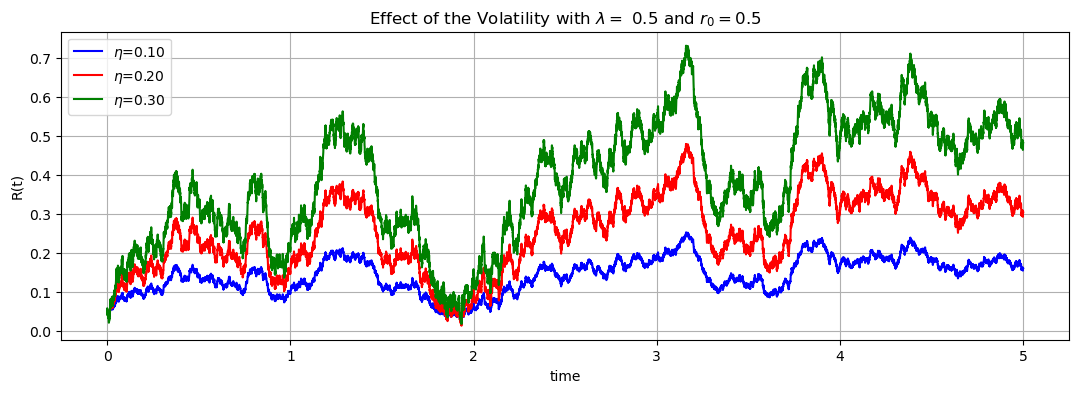
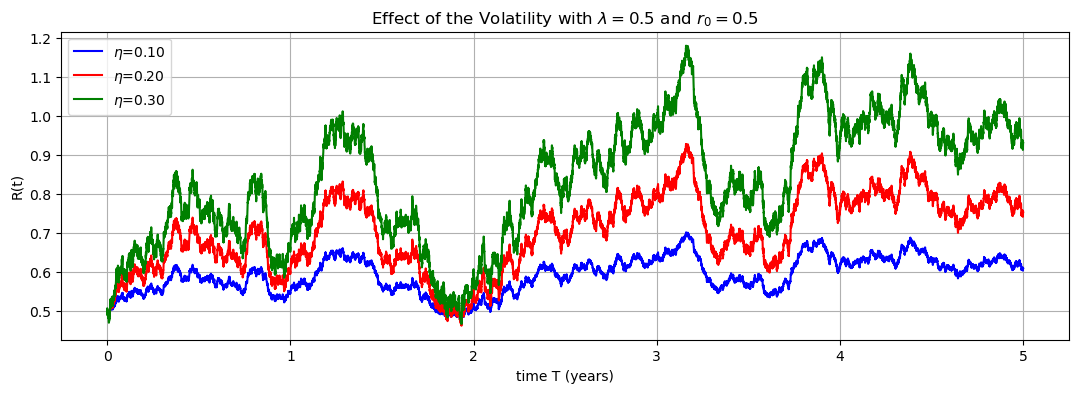
HW plot; Log_COS plot a,b=-1,1, a,b=-100,100;

diff --git a/main.py b/main.py
@@ -86,9 +86,9 @@ def OptionPriceFromCOS(cf, CP, S0, tau, K, N, L, P0T):
     # Summation from k = 0 to k=N-1
     k = np.linspace(0, N - 1, N).reshape([N, 1])
     u = k * np.pi / (b - a)
-    H_k = CallPutCoefficients(OptionType.PUT, a, b, k)
+    U_k = CallPutCoefficients(OptionType.PUT, a, b, k)
     mat = np.exp(i * np.outer((x0 - a), u))
-    temp = cf(u) * H_k
+    temp = cf(u) * U_k
     temp[0] = 0.5 * temp[0]
     value = K * np.real(mat.dot(temp))
     if CP == OptionType.CALL:
@@ -108,7 +108,7 @@ def BS(CP, S_0: float, K: float, sigma: float, t, T: float, r: float) -> float:
     K : ndarray of float
         Array of strikes.
     sigma : float
-        volatility of the stock price
+        volatility of the stock price (constant)
     t : float
         time
     T : float
@@ -123,7 +123,7 @@ def BS(CP, S_0: float, K: float, sigma: float, t, T: float, r: float) -> float:
     """
     if K is np.array:
         K = np.array(K).reshape([len(K), 1])
-    d1 = (np.log(S_0 / K) + (r + 0.5 * np.power(sigma, 2.0)) * (T - t)) / (
+    d1 = (np.log(S_0 / K) + (r + 0.5 * sigma**2.0) * (T - t)) / (
         sigma * np.sqrt(T - t)
     )
     d2 = d1 - sigma * np.sqrt(T - t)
@@ -144,7 +144,6 @@ if __name__ == "__main__":
 
     FIGURE = 1
     SAVE = 1
-    DIFF = 0
 
     print("=" * 60)
 
@@ -198,10 +197,11 @@ if __name__ == "__main__":
         print("=" * 60)
 
     if BLACK:
-        value_BS = BS(CP, S0, K, 0.05, 0, T, r)
+        value_BS = BS(CP, S0, K, v0, 0, T, r)
 
     if FIGURE:
         plt.figure()
+        plt.title(f"Option Price vs Strike Price for T={T} years", fontsize=10)
         if EULER:
             plt.plot(K, valueOptMC, label="HHW - Euler")
         if AES:
@@ -209,47 +209,110 @@ if __name__ == "__main__":
         if COS:
             plt.plot(K, valCOS, "--r", label="HHW - COS")
         if BLACK:
-            plt.plot(K, value_BS, "--g", label="Black Scholes")
+            plt.plot(K, value_BS, "--g", label="Black-Scholes")
         plt.legend()
-        plt.xlabel("Strike, K")
+        plt.xlabel("Strike K")
         plt.ylabel("Option Value")
         plt.grid()
         if SAVE:
             plt.savefig(f"figure/HHW_{T}y_{CP}.png", bbox_inches="tight")
-        if DIFF:
-            value = []
-            for i in range(len(S_n)):
-                value.append(OptionPriceFromMonteCarlo(
-                    CP, S_n[:, i], K, M_t_n[:, i]))
-            print(len(value))
-            print(value)
-            plt.figure()
-            plt.plot(K, valCOS-value)
+        plt.show()
 
-    plt.figure()
-    K = 100
-    r = 0.1
-    T = 1
-    sigma = 0.3
-    N = norm.cdf
+    nx = 0
+    if nx:
+        K = 100
+        r = 0.1
+        T = 1
+        sigma = 0.3
+        N = norm.cdf
 
-    def BS_CALL(S, K, T, r, sigma):
-        d1 = (np.log(S/K) + (r + sigma**2/2)*T) / (sigma*np.sqrt(T))
-        d2 = d1 - sigma * np.sqrt(T)
-        return S * N(d1) - K * np.exp(-r*T) * N(d2)
+        def BS_CALL(S, K, T, r, sigma):
+            d1 = (np.log(S/K) + (r + sigma**2/2)*T) / (sigma*np.sqrt(T))
+            d2 = d1 - sigma * np.sqrt(T)
+            return S * N(d1) - K * np.exp(-r*T) * N(d2)
 
-    def BS_PUT(S, K, T, r, sigma):
-        d1 = (np.log(S/K) + (r + sigma**2/2)*T) / (sigma*np.sqrt(T))
-        d2 = d1 - sigma * np.sqrt(T)
-        return K*np.exp(-r*T)*N(-d2) - S*N(-d1)
-    
-    S = np.arange(60, 140, 0.1)
+        def BS_PUT(S, K, T, r, sigma):
+            d1 = (np.log(S/K) + (r + sigma**2/2)*T) / (sigma*np.sqrt(T))
+            d2 = d1 - sigma * np.sqrt(T)
+            return K*np.exp(-r*T)*N(-d2) - S*N(-d1)
 
-    calls = [BS(OptionType.CALL, s, K, sigma, 0, T, r) for s in S]
-    puts = [BS(OptionType.PUT, s, K, sigma, 0, T, r) for s in S]
-    plt.plot(S, calls, label='Call Value')
-    plt.plot(S, puts, label='Put Value')
-    plt.xlabel('$S_0$')
-    plt.ylabel(' Value')
-    plt.legend()
-    plt.show()
+        S = np.arange(60, 140, 5)
+
+        calls = [BS(OptionType.CALL, s, K, sigma, 0, T, r) for s in S]
+        puts = [BS(OptionType.PUT, s, K, sigma, 0, T, r) for s in S]
+        plt.figure()
+        plt.plot(S, calls, label='Call Value')
+        plt.plot(S, puts, label='Put Value')
+        plt.xlabel('$S_0$')
+        plt.ylabel(' Value')
+        plt.legend()
+        plt.show()
+
+        variyng_S = []
+        for element in S:
+            set_params = (P0T, T, kappa, gamma, rhoxr, rhoxv, vbar, v0, lambd, eta)
+            np.random.seed(1)
+            paths = HHW_Euler(NPaths, NSteps, element, set_params)
+            S_n = paths["S"]
+            M_t_n = paths["M_t"]
+            variyng_S.append(OptionPriceFromMonteCarlo(
+                CP, S_n[:, -1], [100], M_t_n[:, -1]))
+
+        variyng_S = np.array(variyng_S).reshape(len(S))
+
+        def long_put(S, K, Price):
+            # Long Put Payoff = max(Strike Price - Stock Price, 0)     # If we are long a call, we would only elect to call if the current stock price is less than     # the strike price on our option
+            P = list(map(lambda x: max(K - x, 0) - Price, S))
+            return P
+
+        T4 = long_put(S, 100, 0)
+        plt.figure()
+        plt.plot(S, puts, label='Puts Value BS')
+        plt.plot(S, variyng_S, label='Puts Value HHW')
+        plt.plot(S, T4, label='Payoff')
+        plt.xlabel('$S_0$')
+        plt.ylabel(' Value')
+        plt.legend()
+        plt.show()
+
+        plt.style.use('ggplot')
+        plt.rcParams['xtick.labelsize'] = 14
+        plt.rcParams['ytick.labelsize'] = 14
+        plt.rcParams['figure.titlesize'] = 18
+        plt.rcParams['figure.titleweight'] = 'medium'
+        plt.rcParams['lines.linewidth'] = 2.5
+
+        # S = stock underlying # K = strike price # Price = premium paid for option
+        def long_call(S, K, Price):
+            # Long Call Payoff = max(Stock Price - Strike Price, 0)     # If we are long a call, we would only elect to call if the current stock price is greater than     # the strike price on our option
+            P = list(map(lambda x: max(x - K, 0) - Price, S))
+            return P
+
+        def long_put(S, K, Price):
+            # Long Put Payoff = max(Strike Price - Stock Price, 0)     # If we are long a call, we would only elect to call if the current stock price is less than     # the strike price on our option
+            P = list(map(lambda x: max(K - x, 0) - Price, S))
+            return P
+
+        S = [t/5 for t in range(0, 1000)]  # Define some series of stock-prices
+        fig, ax = plt.subplots(nrows=1, ncols=2, figsize=(10, 10))
+        fig.suptitle('Payoff Functions for Long/Short Put/Calls',
+                    fontsize=20, fontweight='bold')
+        fig.text(0.5, 0.04, 'Stock/Underlying Price ($)',
+                ha='center', fontsize=14, fontweight='bold')
+        fig.text(0.08, 0.5, 'Option Payoff ($)', va='center',
+                rotation='vertical', fontsize=14, fontweight='bold')
+
+        lc_P = long_call(S, 100, 10)
+        lp_P = long_put(S, 100, 10)
+        plt.subplot(1, 2, 1)
+        plt.plot(S, lc_P, 'r')
+        plt.plot(S, lp_P, 'b')
+        plt.legend(["Long Call", "Long Put"])
+
+        T2 = long_call(S, 120, 10)
+        T4 = long_put(S, 100, 10)
+        plt.subplot(1, 2, 2)
+        plt.plot(S, T2, 'r')
+        plt.plot(S, T4, 'b')
+        plt.legend(["Long Call", "Long Put"])
+        plt.show()

diff --git a/utils/HHW_MC.py b/utils/HHW_MC.py
@@ -152,7 +152,6 @@ if __name__ == "__main__":
 
     FIGURE = True
     SAVE = False
-    DENSITY = False
 
     np.random.seed(1)
 
@@ -173,29 +172,33 @@ if __name__ == "__main__":
     if FIGURE:
         plt.figure()
         plt.plot(K, valueOptMC)
+        plt.title('European Option Value for different Strikes Price (K)')
         plt.legend(["Euler"])
         plt.xlabel("Strike, K")
         plt.ylabel("EU Option Value")
         plt.grid()
         if SAVE:
             plt.savefig("MC.png", bbox_inches="tight")
-        plt.show()
 
         plt.figure()
+        plt.title("Stock Price path")
+        plt.xlabel("Time (t)")
         for i in range(0, 5):
-            plt.title("Stock Price path")
             plt.plot(time_n, S_n[i, :])
-        plt.show()
+        if SAVE:
+            plt.savefig(f"Euler_{T}_StockPaths.png", bbox_inches="tight")
 
         plt.figure()
+        plt.title("Interest rate paths")
+        plt.xlabel("Time (t)")
         for i in range(0, 5):
-            plt.title("Interest rate paths")
             plt.plot(time_n, R_n[i, :])
-        plt.show()
+        if SAVE:
+            plt.savefig(f"Euler_{T}_IRPaths.png", bbox_inches="tight")
 
         plt.figure()
+        plt.title("Numeraire paths")
         for i in range(0, 10):
-            plt.title("Numeraire paths")
             plt.plot(time_n, M_t_n[i, :])
         plt.show()
 
@@ -204,32 +207,3 @@ if __name__ == "__main__":
         np.savetxt("MC_S_n.txt", S_n, fmt="%.4f")
         np.savetxt("MC_R_n.txt", R_n, fmt="%.4f")
         np.savetxt("MC_M_t_n.txt", M_t_n, fmt="%.4f")
-
-    if DENSITY:
-        import scipy.stats as st
-
-        # 3D graph for S(t) for paths versus density
-        plt.figure()
-        ax = plt.axes(projection="3d")
-        zline = np.zeros([len(time_n), 1])
-        # Plot paths
-        n = 40
-        for i in range(0, n, 1):
-            y1 = np.squeeze(np.transpose(S_n[i, :]))
-            x1 = time_n
-            z1 = np.squeeze(zline)
-            ax.plot3D(x1, y1, z1, "blue")
-        ax.view_init(50, -170)
-
-        # Plot densities for X(T)
-        Ti = np.linspace(0, T, 500)
-        # Note that in scipy the scale parameter needs to be in the exponent
-        lognnormPDF = lambda x, t: st.lognorm.pdf(
-            x, scale=np.exp(np.log(S0) + (r - 0.5 * eta * eta) * t), s=np.sqrt(t) * eta
-        )
-        y1 = np.linspace(0, 200, 100)
-        for ti in Ti:
-            x1 = np.zeros([len(y1)]) + ti
-            z1 = lognnormPDF(y1, ti)
-            ax.plot3D(x1, y1, z1, "red")
-        plt.show()

diff --git a/cal_theory/HW_MC.py b/cal_theory/HW_MC.py
@@ -34,7 +34,6 @@ def HWEuler(NPaths, NSteps, T, P0T, lambd, eta):
             + eta * (W[:, i + 1] - W[:, i])
         )
         time[i + 1] = time[i] + dt
-        print(f_ZERO_T(time[i]))
     paths = {"time": time, "R": R}
     return paths
 
@@ -46,13 +45,13 @@ if __name__ == "__main__":
 
     pylab.rcParams["figure.figsize"] = (13, 4)
 
-    SAVE = 0
+    SAVE = 1
     NPaths = 1
     NSteps = 20000
     T = 5.0
     lambd = 0.5
     eta = 0.1
-    P0T = lambda T: np.exp(-0.05 * T)
+    P0T = lambda T: np.exp(-0.5 * T)
 
     plt.figure()
     legend = []
@@ -67,8 +66,8 @@ if __name__ == "__main__":
         R = Paths["R"]
         plt.plot(timeGrid, np.transpose(R), color=color[idx])
     plt.grid()
-    plt.title(rf"Effect of mean reversion with ${{\eta}} = $ {eta} and ${{r_0}} = 0.5$")
-    plt.xlabel("time")
+    plt.title(rf"Effect of mean reversion with ${{\eta}}=${eta} and ${{r_0}}=0.5$")
+    plt.xlabel("time T (years)")
     plt.ylabel("R(t)")
     plt.legend(legend)
     if SAVE:
@@ -87,9 +86,9 @@ if __name__ == "__main__":
         plt.plot(timeGrid, np.transpose(R), color=color[idx])
     plt.grid()
     plt.title(
-        rf"Effect of the Volatility with ${{\lambda}} = $ {lambd} and ${{r_0}} = 0.5$"
+        rf"Effect of the Volatility with ${{\lambda}}=${lambd} and ${{r_0}}=0.5$"
     )
-    plt.xlabel("time")
+    plt.xlabel("time T (years)")
     plt.ylabel("R(t)")
     plt.legend(legend, loc="upper left")
     if SAVE:

diff --git a/utils/config.py b/utils/config.py
@@ -19,7 +19,7 @@ T = 0.5  # time until maturity (years)
 r = 0.07  # initial interest rate
 
 # K = np.linspace(.01,2*S0*np.exp(r*T),50)
-K = np.arange(80, 121, 1)  # OTM/ATM/ITM options
+K = np.arange(60, 141, 1)  # OTM/ATM/ITM options
 K = np.array(K).reshape([len(K), 1])  # array of strike prices
 S = np.arange(60, 140, 0.1)
 S = np.array(S).reshape([len(S), 1])  # array of prices

diff --git a/cal_theory/COS_LogNormal_Density_Recovery.py b/cal_theory/COS_LogNormal_Density_Recovery.py
@@ -31,7 +31,7 @@ if __name__ == "__main__":
     N = [2**x for x in range(2, 9, 1)]
     mu = 0
     sigma = 0.25
-    cF = lambda u: np.exp(i * mu * u - 0.5 * np.power(sigma, 2.0) * np.power(u, 2.0))
+    cF = lambda u: np.exp(i * mu * u - 0.5 * sigma**2 * u**2)
     y = np.linspace(0.05, 5, 1000)
 
     dist = lognorm([sigma], loc=mu)
